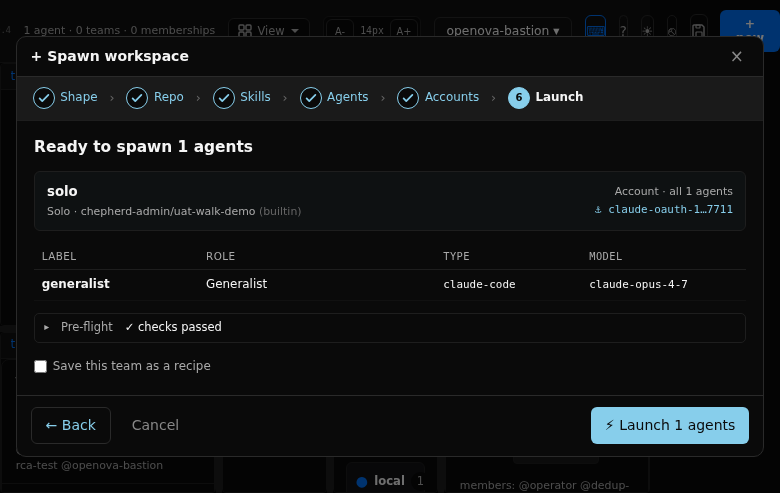
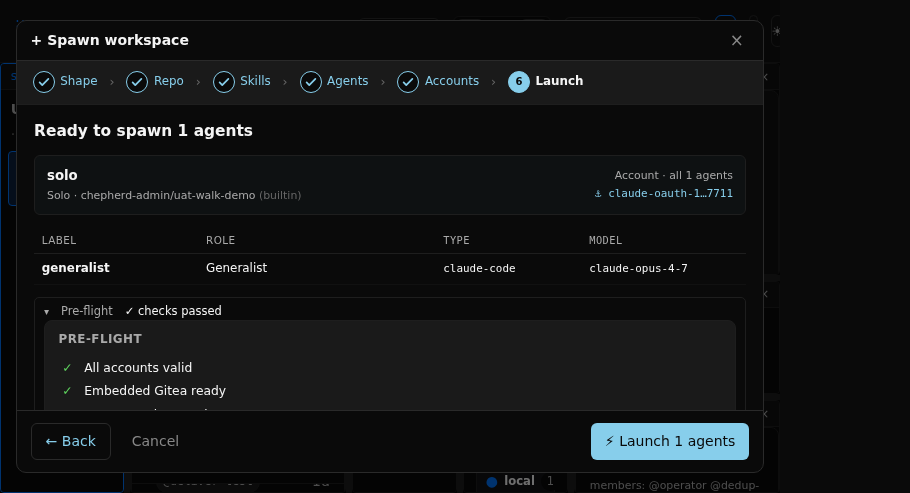
docs(uat): close evidence gaps from independent review
Independent reviewer (#680 comment) caught two evidence-vs-claim gaps:
- TC-01.1 was ✅ with no screenshot → captured the real "🔑 chepherd login"
  dialog (signed out, shot it, signed back in): tc01-0-login-dialog.png.
- TC-04.6 quoted "✓ Embedded Gitea ready" but the committed pre-flight shot
  showed only the collapsed "✓ checks passed" → re-captured with the
  ▸ Pre-flight disclosure expanded so the green checks are literally visible.

Every ✅ now resolves to a screenshot that literally shows the claimed text.

Refs #680

diff --git a/docs/ledger/UAT-chepherd-dashboard-2026-06-03.md b/docs/ledger/UAT-chepherd-dashboard-2026-06-03.md
@@ -47,7 +47,7 @@ Evidence is a committed screenshot under [`evidence/`](evidence), linked `[📷 
 
 | # | Screen you're on | What you do | What you must see | Result | Evidence |
 |---|---|---|---|---|---|
-| 1 | [`/v0.9.4/`](http://localhost:8083/v0.9.4/) | Open the page | A **"🔑 chepherd login"** dialog: *"Paste the bootstrap token chepherd printed at startup."* | ✅ | (login dialog) |
+| 1 | [`/v0.9.4/`](http://localhost:8083/v0.9.4/) | Open the page | A **"🔑 chepherd login"** dialog: *"Paste the bootstrap token chepherd printed at startup."* | ✅ | [📷 tc01-0-login-dialog](evidence/tc01-0-login-dialog.png) |
 | 2 | chepherd login | Paste the token, click **Sign in** | Dialog closes; the **workspace** loads — header shows *"N agent · M teams · K memberships"* and the pane grid (sessions · terminal · team transcript · federation · multi-host · agent-details · scorecard) | ✅ | [📷 tc01-1-workspace](evidence/tc01-1-workspace.png) |
 
 - **Journey verdict:** 🟢 **PASS** — token sign-in reaches the workspace.
@@ -101,7 +101,7 @@ Evidence is a committed screenshot under [`evidence/`](evidence), linked `[📷 
 | 3 | Step 2 *Repo* | Click **Built-in (Embedded sandbox)**, type a repo name `uat-walk-demo`, press **Enter**, click **Next →** | Repo commits and **Next** enables; step 3 *Skills* — *"Who's bringing what?"* skill matrix | ❌ | see note — auto-commit copy defect |
 | 4 | Step 3 *Skills* | Accept defaults, click **Next →** | Step 4 *Agents* — *"Which agents + which models?"* (claude-code · claude-opus-4-7) | ✅ | [📷 tc04-2-wizard-skills](evidence/tc04-2-wizard-skills.png) |
 | 5 | Step 4 *Agents* | Accept defaults, click **Next →** | Step 5 *Accounts* — a saved Claude account auto-selects; *"✓ All 1 agents have an account selected"* | ✅ | [📷 tc04-3-wizard-accounts](evidence/tc04-3-wizard-accounts.png) |
-| 6 | Step 5 *Accounts* | Click **Next →** | Step 6 *Launch* — review table + pre-flight **"✓ All accounts valid · ✓ Embedded Gitea ready · ✓ 1/1 agent slots ready"** | ✅ | [📷 tc04-4-wizard-preflight](evidence/tc04-4-wizard-preflight.png) |
+| 6 | Step 5 *Accounts* | Click **Next →** | Step 6 *Launch* — review table + pre-flight; expanding **▸ Pre-flight ✓ checks passed** shows **"✓ All accounts valid · ✓ Embedded Gitea ready · ✓ 1/1 agent slots ready"** | ✅ | [📷 tc04-4-wizard-preflight](evidence/tc04-4-wizard-preflight.png) |
 | 7 | Step 6 *Launch* | Click **⚡ Launch 1 agents** | A new agent appears in the **sessions** pane with a live **terminal** tab | ❌ | [📷 tc04-5-spawn-failed](evidence/tc04-5-spawn-failed.png) |
 
 - **Journey verdict:** 🔴 **FAIL** — Launch errored on screen: **`⚠ 1 of 1 agents failed` → `provider "embedded" not registered`**, despite the pre-flight (step 6) having shown a **false green** *"✓ Embedded Gitea ready"*. The built-in-sandbox spawn — the simplest, default path — never produces a running agent. Filed **[#682](https://github.com/chepherd/chepherd/issues/682) (P1)**, which also covers the false-green pre-flight (theater) and a P3 copy defect at step 3: *"valid name auto-commits"* is wrong — a valid name does **not** auto-commit; the repo only commits when you press **Enter** (no repo-create request fires otherwise, and **Next** stays disabled). Issue left **open**; the executor does not close it.